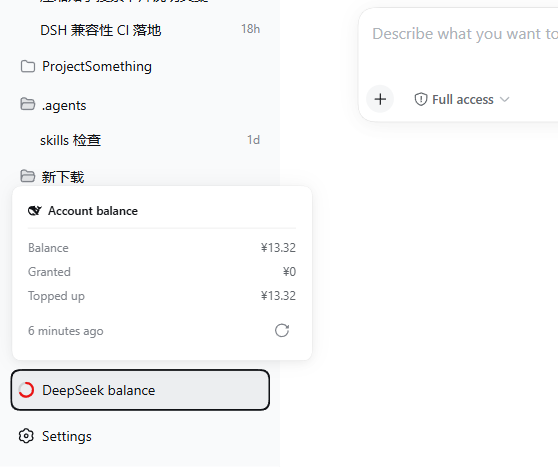
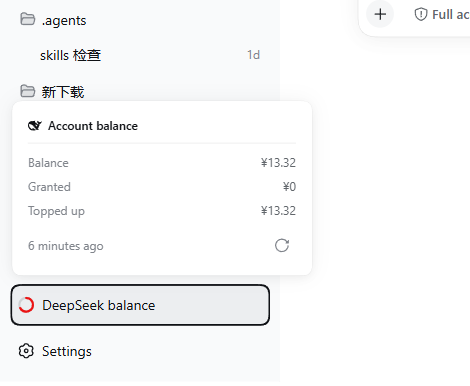
文档分层：每层只列层，会漂的值只留指针
改了什么
- 新增 docs/README.md 与 docs/AGENTS.md 双件：docs/ 的八份文件先归层（活文档 / 设计依据 / 记录）
  再登记进一张表 —— 层决定它能不能被改。
- 新增 .agents/notes/README.md：十三条决策记录各一行结论，并写明这里是「写死当时事实」的地方。
- 根 AGENTS.md 的「文档地图」不再逐个列 docs/ 下的文件，改成每层一行指针；
  每层有什么由那一层的 README 交代。
- 门面去掉实测来的 dist-tag 版本号：这个值随时会变，README 只讲语义（latest 比本插件要的那条线旧）
  并给出现查命令；中英双件同步改。
- test/redlines.test.ts 的「文档不抄实测值」从黑名单改成形状 + 分层：黑名单只挡 0.1.5-rc.2，
  而文档里当时写的是 0.1.5-rc.1，照样溜过去。现在扫全部活文档（记录类豁免），
  门面允许留宿主版本范围但必须与 package.json 同行，另加一条「守卫跟着宿主线走」，
  宿主换主版本号时它会红，提醒改形状。
- compat.yml 文件头注明版本号不写在这里。

为什么
- 一条事实只有一个 home：会漂的值（宿主版本范围、dist-tag 实际版本）只在真源里，别处写指针。
- 记录类（勘察 / 复盘 / 决策）写的就是当时的事实，故意带着会漂的值，不受这条约束。

怎么验证
- npx --no-install vitest run test/redlines.test.ts -> 18 passed。
  新守卫先扫出 recon/ —— 那是 .gitignore 忽略的勘察临时目录，已按「不随仓库走」排除。
- python check-links.py . --fragments -> 78 files / 362 links / 0 errors。
- python check-line-endings.py . --quiet -> 310 files / 0 inconsistent。
- npm run typecheck 三段 0；npm test 28 files / 309 passed。

怎么回滚
- git revert 本提交：两个新 README 会被删掉，根文档地图回到逐文件列表，红线回到黑名单版本。

diff --git a/test/redlines.test.ts b/test/redlines.test.ts
@@ -1,4 +1,4 @@
-import { existsSync, readFileSync } from 'node:fs'
+import { existsSync, readFileSync, readdirSync } from 'node:fs'
 import { describe, expect, it } from 'vitest'
 
 /**
@@ -118,6 +118,72 @@ describe('类型检查开关', () => {
     for (const flag of flags) {
       expect(tsconfig.compilerOptions?.[flag], flag).toBe(true)
     }
+  })
+})
+
+describe('文档不抄实测值', () => {
+  /**
+   * 记录类：写的就是当时的事实，**故意**带着会漂的值，所以不在约束范围内。
+   * 判据是「它写的是此刻还是当时」—— 被当现状读的才算活文档；层的登记表在 docs/README.md。
+   */
+  const RECORDS = [
+    /^\.agents\/notes\//,
+    /^docs\/postmortem\//,
+    /^docs\/recon-/,
+    /^docs\/(ui-handoff|model-integration-assessment|backend-architecture-review)\.md$/,
+  ]
+
+  /** 门面双件：装之前必须看得见兼容范围，所以允许留值 —— 但必须与真源同行。 */
+  const FACADE = ['README.md', 'README_en.md']
+
+  /** 真源。留值的那一行必须自己写出处。 */
+  const HOME = 'package.json'
+
+  /**
+   * 会漂的宿主版本字面量。
+   * 形状跟着宿主主版本走：宿主换主版本号时下面那条「守卫跟着宿主线走」会红，来改这里。
+   */
+  const HOST_VERSION = /\b0\.\d+\.\d+(?:-[a-z]+\.\d+)?\b/g
+
+  /** 仓库里会被当文档读的 markdown；跳过依赖、产物与版本库目录。 */
+  function liveDocs(dir = '.'): string[] {
+    const found: string[] = []
+    for (const entry of readdirSync(dir, { withFileTypes: true })) {
+      const path = dir === '.' ? entry.name : `${dir}/${entry.name}`
+      if (entry.isDirectory()) {
+        // recon/ 是勘察期的临时长文，被 .gitignore 忽略、不随仓库走，所以不在守卫范围内。
+        if (['node_modules', 'lib', '.git', 'recon'].includes(entry.name)) continue
+        found.push(...liveDocs(path))
+        continue
+      }
+      if (!entry.name.endsWith('.md')) continue
+      if (RECORDS.some((pattern) => pattern.test(path))) continue
+      found.push(path)
+    }
+    return found
+  }
+
+  it('活文档里不写会漂的宿主版本；门面要留就得与真源同行', () => {
+    const files = [...liveDocs(), ...readdirSync('.github/workflows').map((name) => `.github/workflows/${name}`)]
+    // 扫不到文件说明walk的路径规则坏了，先红这个，别让它静默变成一条永不触发的守卫。
+    expect(files.length).toBeGreaterThan(10)
+
+    for (const file of files) {
+      const lines = readFileSync(file, 'utf8').split('\n')
+      lines.forEach((line, index) => {
+        for (const value of line.match(HOST_VERSION) ?? []) {
+          if (FACADE.includes(file) && line.includes(HOME)) continue
+          throw new Error(
+            `${file}:${index + 1} 抄了会漂的宿主版本 ${value}` +
+            ` —— 改成指向 ${HOME} 的指针，或现查 node scripts/compat-swap.mjs check`,
+          )
+        }
+      })
+    }
+  })
+
+  it('守卫跟着宿主线走：宿主换主版本号时这条会红，来改 HOST_VERSION', () => {
+    expect(pkg.engines?.dsh, '宿主已不在 0.x 线上，HOST_VERSION 的形状要跟着改').toMatch(/^[~^]?0\./)
   })
 })
 

diff --git a/AGENTS.md b/AGENTS.md
@@ -40,37 +40,19 @@
 
 ## 验证快照
 
-- 结论一律来自本机实跑或 [CI](.github/workflows/ci.yml)。
-- 阶段 0：勘察报告完成，结论均带源文件行号。
-- 阶段 1：16 项集成决策已拍板 → [决策记录](.agents/notes/2026-09-17-integration-decisions.md)
-- 构建产物：`npm run build` 三步全绿。体积不抄进文档 —— 用 `Get-ChildItem lib` 现查。
-- 阶段 6：已用 patch 层热挂载进本机 web profile（符号链接形态），宿主未重启。
-- 维护者已实机确认：条目可见、设置卡片渲染、圆环与标签正常。
-- 修复过并复测的实机缺陷：footer 三条目互挤、展开态条目不可见、折叠态与邻居贴住、点邻居却弹我们的浮层。
-- 维护者已实机验收全部界面：圆环与标签、点击浮层、折叠分组、与邻居插件共存。
-- 窄视口浮层钳制已补验：360 / 480 / 600 / 700 / 721 五个宽度全部落在视口内。
-- **后端与界面完成**：实施路线的 11 步全部落地，路线表已从规格文档移出 → [归档记录](.agents/notes/2026-09-17-implementation-roadmap-archive.md)。
-- 实现与文档不一致的 15 条 → [决策记录](.agents/notes/2026-09-17-implementation-deviations.md)。
-- 端点实测（隔离实例，真实 dsh 宿主）：六个端点全部可用；`severity` 四档、`NO_KEY` / `UPSTREAM_401` / `UPSTREAM_5XX` 三条错误路径、`422` 校验、冷却、配置掩码逐条核过。
-- 持久化实测：重启宿主后快照按 `accountTag` 读回，`.salt` 复用；上游不可达时降级成 `stale` 而不是丢数据。
-- 界面实测（隔离实例 + 无头浏览器）：左下角圆环显示真实金额，浮层三段金额与相对时间正确，Escape 关闭，控制台零报错。
-- 测试与类型检查：跑 `npm test`（自带 build）与 `npm run typecheck`，或看 [CI](.github/workflows/ci.yml)。**数字不在本文档里抄。**
-- **主实例已重启**（13:15），跑的是最新产物；维护者已实机确认界面与功能。
-- 工程面对齐（同日第二轮）：三个发版脚本、三条 workflow、契约测试层、assets 双件、PUBLISHING、
-  CONTRIBUTING 中英、双语门面全部落地；判定与实测见 [落地记录](.agents/notes/2026-09-17-release-surface-landing.md)。
-- 两张设置卡片截图已实拍替换占位图（中英各一张，取自运行中的 GUI），拍英文时临时切过语言并已切回；
-  实拍踩到的两条约束写进 [assets/AGENTS.md](assets/AGENTS.md) 的「已知约束」。
-- 圆环弧长改为「余额占 warn 阈值的比例」（颜色映射不变），同步改了 9 处文档；
-  链接校验与换行校验在这一轮全部重跑过。
-- 阈值加了跨字段约束（同一币种内告急必须低于预警）：宿主 `validate` + 前端失焦提示 + 成对写入排序。
-  宿主那道要重启宿主才生效（浏览器半边靠 HMR 立刻生效）；判据与排序各有专门用例，见 [test/threshold-pairs.test.ts](test/threshold-pairs.test.ts)。
-- **真实上游实测（发布前）**：活宿主上 `GET /api/v1/balance` 回真实余额，圆环弧长 = 余额 / warn 阈值（15.06/20 → 0.753，与 dasharray 相符）；
-  浮层三段金额与相对时间正确；设置卡片凭据徽标「已由启动环境提供」；错 key 走插件自己的适配器得到 `UPSTREAM_401`、不可重试。
-- **已发布 1.0.0**：npm 上那个 tarball 的 shasum 与本仓库 `npm pack --dry-run` 的**完全一致**（`a82e68ef…`），
-  即 npm 上的 1.0.0 就是 `555d242` 这棵树。
-- 维护者第二轮反馈四项全部落地并实测：刷新按钮冷却期内置灰（`disabled` 为真、状态行「N 秒后可再次刷新」）；
-  改阈值圆环当场变色且**上游请求数保持 0**；五档形状 ok 绿实弧 / warn 琥珀实弧 / critical 红实弧 / unavailable 红弧+中心叉号 / unknown 灰实弧；
-  连接组的只读凭据显示「已由启动环境提供」徽标且框内留空、Base URL 带官方提示、「自定义设置」折叠里有 apiKey 与 apiKeyRef。
+- 结论一律来自本机实跑或 [CI](.github/workflows/ci.yml)；**数字不在本文档里抄**。
+- 领域 / 服务 / 适配器 / HTTP / 浏览器半边：`npm test` 覆盖 —— 跑它，或看 CI。
+- 产物级：`test/artifacts.test.ts` 在 `lib/` 上断言（`npm test` 自带 build）。
+- 契约级：`npm run test:contract` 打真实上游，要 `DSH_CI_API_KEY`。
+- **真机端到端已验**（隔离实例 + 真实 dsh 宿主）：六个端点、`severity` 四档、
+  `NO_KEY` / `UPSTREAM_401` / `UPSTREAM_5XX` 三条错误路径、`422` 校验、冷却、配置掩码；
+  重启后快照按 `accountTag` 读回、`.salt` 复用、上游不可达降级成 `stale`。
+- **界面已由维护者实机验收**：圆环 / 浮层 / 折叠分组 / 与邻居插件共存；
+  窄视口 360 / 480 / 600 / 700 / 721 五个宽度浮层都落在视口内。
+- **发布前在活宿主上打过真实上游**：余额、浮层三段、凭据徽标，以及错 key 的 `UPSTREAM_401`。
+- **已发布 1.0.0**，npm 上的 tarball 与本仓库 `npm pack --dry-run` 的 shasum 一致。
+
+轮次流水记在 git log 与 [.agents/notes/](.agents/notes/) 里，不在这里堆。
 
 ## 待办
 
@@ -104,7 +86,7 @@
 - **cordis 不许读没 `inject` 过的服务**：直接访问会抛 `cannot get property "..." without inject`。可选服务（`connection` / `storageDomain`）必须由 `ctx.inject` 把门并留降级路径；把它们塞进顶层 `inject` 会让缺服务的装配整个插件不装载。**降级路径会把这条配置错误伪装成运行时故障**，所以启动日志要当验收项看。
 - 符号链接安装下 `npm run build` 直接写线上，未验证的构建会立刻影响正在使用的界面。
 - `inject` 门禁按服务名逐字判，点号键不展开成父级。
-- dist-tag 的 `latest` 指向很旧的版本，装依赖必须点名版本线；`@deepseek-ai/schemastery` 不在 `0.1.6-alpha.1` 线上。
+- dist-tag 的 `latest` 指向很旧的版本，装依赖必须点名版本线；`@deepseek-ai/schemastery` 不在宿主那条线上。实际版本现查：`node scripts/compat-swap.mjs check`。
 - `dsh.client.inject` 只列真实客户端图行；`ui-slots` 与 `ui-primitives` 是 staticLinked 平台模块，列进去会被静默跳过。
 - **`npm ci` 会执行 `prepare`**：所以本仓库**不声明** `prepare`。声明了的话 CI 的 `npm ci` 会先产出 `lib/`，typecheck 就再也看不到「干净检出」这个状态 —— 那正是刚修掉的一类缺陷（`test/artifacts.test.ts` 在 CI 上 TS2307，本机因产物早就在而常绿）。见 [决策记录](.agents/notes/2026-09-17-prepare-script-decision.md)。
 - **写临时探针别用 `os.tmpdir()`**：进程环境为空时它在 Windows 上返回相对路径 `undefined\temp`，会把文件写进工作区，还会让 `robocopy` 自我递归出一棵超 MAX_PATH 的目录树。用 `$env:TEMP` 或显式绝对路径，用完即删。
@@ -120,6 +102,20 @@
 
 - **一条事实只有一个 home**：根 [README.md](README.md) 讲门面，本文件讲规则与仪表盘，子目录 `README.md` 讲「有什么 / 改哪」，子目录 `AGENTS.md` 讲「在这里怎么干」，[docs/ARCHITECTURE.md](docs/ARCHITECTURE.md) 讲不变的设计，[.agents/notes/](.agents/notes/) 讲为什么。别处一律链接。
 - **能自证的不抄**：测试数字、产物体积、版本号一律指向 [CI](.github/workflows/ci.yml)、`package.json` 或现查命令；抄一次就要手动跟一次。
+- **新增会漂的事实之前，先在下表登记去处**；别处只写指针，不重抄值。
+
+  | 事实 | home | 别处怎么写 |
+  |---|---|---|
+  | 版本号、依赖范围、`engines` | [package.json](package.json) | 引用，不重抄 |
+  | 测试数量、类型检查结果 | [CI](.github/workflows/ci.yml) 或现跑 | 一律不抄 |
+  | 产物清单与体积 | `Get-ChildItem lib` 现查 | 一律不抄 |
+  | 发布态该有什么 | [scripts/check-release.mjs](scripts/check-release.mjs) 的断言 | 引用断言集合 |
+  | dist-tag 三条线的实际版本 | `node scripts/compat-swap.mjs check` 现查 | 只写语义（哪条旧、哪条是我们声明的） |
+  | 端点路径与请求形状 | [src/http/routes.ts](src/http/routes.ts) | 引用 |
+  | 配置字段与契约 | [src/config.ts](src/config.ts) · [docs/backend-architecture.md](docs/backend-architecture.md) | 引用 |
+  | 颜色 / 阈值口径 | [docs/ARCHITECTURE.md](docs/ARCHITECTURE.md) | 引用 |
+  | dsh 运行时行为 | 宿主源码 `packages/` | 带行号引用，行号以当前检出为准 |
+  | 发布状态（版本 / tag） | npm 与 GitHub 现查 | 只留一行指针 |
 - **能落成校验的不写散文**：红线 → [test/redlines.test.ts](test/redlines.test.ts)；发布态不变量 → [scripts/check-release.mjs](scripts/check-release.mjs)；文档链接与换行 → `check-links.py` / `check-line-endings.py`。
 - **改一处要查得到同步点**：每个子目录 `README.md` 的「变更影响路由」是同步清单入口；新增或改名文件后必须回填。
 - **改根 [README.md](README.md) 必同改 [README_en.md](README_en.md)**：能力清单、上手步骤、指针逐条对齐，冲突以中文为准。
@@ -127,19 +123,9 @@
 
 ## 文档地图
 
-- 架构设计 → [docs/ARCHITECTURE.md](docs/ARCHITECTURE.md)
-- 原生集成勘察（设计依据）→ [docs/recon-native-integration.md](docs/recon-native-integration.md)
-- 连接与官方模型机制的融合判定（设计依据）→ [docs/model-integration-assessment.md](docs/model-integration-assessment.md)
-- 后端架构（修正版，已复审；只含设计与契约）→ [docs/backend-architecture.md](docs/backend-architecture.md)
-- 后端架构文档对照审查（设计依据）→ [docs/backend-architecture-review.md](docs/backend-architecture-review.md)
-- **UI 侧契约与移交（可原样转发给后端）** → [docs/ui-handoff.md](docs/ui-handoff.md)
-- 发布手册（流程与版本号判定链）→ [docs/PUBLISHING.md](docs/PUBLISHING.md)
-- 门面截图与其判据 → [assets/README.md](assets/README.md) · [assets/AGENTS.md](assets/AGENTS.md)
-- 决策记录 → [.agents/notes/](.agents/notes/)
-- 源码手册 → [src/README.md](src/README.md)
-- 浏览器半边 → [src/client/README.md](src/client/README.md)
-- 领域模型手册 → [src/domain/README.md](src/domain/README.md)
-- 测试手册 → [test/README.md](test/README.md)
-- 构建脚本 → [scripts/README.md](scripts/README.md)
-- 事故复盘 → [docs/postmortem/](docs/postmortem/)
-- 验证配方（隔离实例 / stub 上游 / 探针）→ [.agents/notes/2026-09-17-verification-recipes.md](.agents/notes/2026-09-17-verification-recipes.md)
+- 本表只列**层**；每层有什么在它自己的 README 里，不在这里重抄一份。
+- 设计、契约、发布手册与事故复盘 → [docs/README.md](docs/README.md)
+- 决策记录与验证配方（当时为什么这么定）→ [.agents/notes/README.md](.agents/notes/README.md)
+- 源码手册 → [src/README.md](src/README.md)；浏览器半边 → [src/client/README.md](src/client/README.md)；领域模型 → [src/domain/README.md](src/domain/README.md)
+- 测试手册 → [test/README.md](test/README.md)；构建脚本 → [scripts/README.md](scripts/README.md)
+- 门面截图与判据 → [assets/README.md](assets/README.md) · [assets/AGENTS.md](assets/AGENTS.md)

diff --git a/.agents/notes/README.md b/.agents/notes/README.md
@@ -1,0 +1,24 @@
+# .agents/notes/ — 决策记录与备忘
+
+- 职责：记「当时为什么这么定」，以及被这个决定排除掉的替代方案。
+- 一条一档，文件名 `YYYY-MM-DD-<主题>.md`；决策类按「问题 / 决策 / 替代方案 / 影响」写，备忘类按「事实 / 处置 / 影响」写。
+- **这里写死当时的事实**：它们是记录，不随代码更新；结论变了就新添一条，不改旧的。
+- 现状看 [docs/ARCHITECTURE.md](../../docs/ARCHITECTURE.md) 与 [docs/README.md](../../docs/README.md)；过程流水看 git log。
+
+## 索引
+
+| 记录 | 结论 |
+|---|---|
+| [verification-recipes](2026-09-17-verification-recipes.md) | 验证配方：隔离实例、stub 上游、探针脚本，含双挂载那条坑。 |
+| [integration-decisions](2026-09-17-integration-decisions.md) | 阶段 1 集成方案拍板，另附六条补充决策（设置卡片只做配置、第一版只显示余额等）。 |
+| [footer-stack-override](2026-09-17-footer-stack-override.md) | 宿主 footer 容器是 row flex：插件侧用 `:has()` 反选父元素改回纵向堆叠。 |
+| [collapsible-groups](2026-09-17-collapsible-groups.md) | 设置卡片改可折叠分组，默认四组全收起。 |
+| [zhihu-search-alignment](2026-09-17-zhihu-search-alignment.md) | 工程面照 `dsh-zhihu-search` 对齐：批 A–J 的取舍清单。 |
+| [no-linter-decision](2026-09-17-no-linter-decision.md) | 不引 lint，改用四个编译器开关顶上。 |
+| [prepare-script-decision](2026-09-17-prepare-script-decision.md) | 不声明 npm `prepare`：否则 CI 的 `npm ci` 会先产出 `lib/`，看不见干净检出。 |
+| [compat-lines-advisory](2026-09-17-compat-lines-advisory.md) | compat 两条线暂时都只记录、不阻断；恢复主次的判据在文内。 |
+| [release-surface-landing](2026-09-17-release-surface-landing.md) | 发布面十一项落地，分「抄 / 改后抄 / 不抄」三类。 |
+| [deferred-release-surface](2026-09-17-deferred-release-surface.md) | 当时暂缓的发布面项目；现已全部落地，落地记录见上一条。 |
+| [implementation-deviations](2026-09-17-implementation-deviations.md) | 实现与既定文档的偏离清单，末节是六条待产品决策。 |
+| [implementation-roadmap-archive](2026-09-17-implementation-roadmap-archive.md) | 实施路线与给实现 Agent 的开场白归档。 |
+| [host-fetch-path-jsdoc-memo](2026-09-17-host-fetch-path-jsdoc-memo.md) | 备忘：宿主 `ConnectionFetchRoute.path` 的 JSDoc 与实现矛盾。 |

diff --git a/docs/README.md b/docs/README.md
@@ -1,0 +1,34 @@
+# docs/ — 设计与契约文档
+
+- 职责：放跨阶段的**设计 / 契约 / 流程**；实现细节进 [src/](../src/README.md) 的手册，过程记录进 [.agents/notes/](../.agents/notes/)。
+- 怎么在这里写 → [AGENTS.md](AGENTS.md)。
+- 上层 → 根 [AGENTS.md](../AGENTS.md) 的文档地图；门面 → 根 [README.md](../README.md)。
+
+## 三层
+
+- **活文档**：描述现状，随代码改；改了代码要同批改它。
+- **设计依据**：某个阶段定契约的那一份，写完即冻结；后来变了就新写一条决策记录，不回头改它。
+- **记录**：勘察与复盘，只写当时发生了什么。
+
+层的判据决定它能不能被改，所以每份文件先归层再动笔。
+
+## 文件
+
+| 文件 | 层 | 一句话 |
+|---|---|---|
+| [ARCHITECTURE.md](ARCHITECTURE.md) | 活 | 不变的设计与防错清单：插件形态、slot、颜色口径、跨字段校验。 |
+| [PUBLISHING.md](PUBLISHING.md) | 活 | 发布手册：流程、版本号判定链、判例库。 |
+| [backend-architecture.md](backend-architecture.md) | 活 | 后端契约（端点 / 配置 / 存储 / 错误码）的 home。 |
+| [ui-handoff.md](ui-handoff.md) | 依据 | 移交给后端的那份 UI 契约：消费哪些字段、不消费哪些。 |
+| [model-integration-assessment.md](model-integration-assessment.md) | 依据 | 与官方模型机制（凭据继承）的融合判定。 |
+| [backend-architecture-review.md](backend-architecture-review.md) | 依据 | 后端架构文档的逐条对照审查。 |
+| [recon-native-integration.md](recon-native-integration.md) | 记录 | 阶段 0 勘察：原生 slot / 组件 / token / 数据获取的实测结论。 |
+| [postmortem/](postmortem/) | 记录 | 按日期归档的事故复盘：现象、根因、防错。 |
+
+## 变更影响路由
+
+- 改对外可见行为 → 根 [README.md](../README.md)（中英双件同改）+ [ARCHITECTURE.md](ARCHITECTURE.md)。
+- 改界面结构、颜色口径或阈值口径 → [ARCHITECTURE.md](ARCHITECTURE.md)。
+- 改端点、配置字段或错误码 → [backend-architecture.md](backend-architecture.md) + [src/http/README.md](../src/http/README.md)。
+- 改发布流程或版本号判定 → [PUBLISHING.md](PUBLISHING.md)。
+- 新增、改名或删除本目录的文件 → 回填本文件与根 [AGENTS.md](../AGENTS.md) 的文档地图。

diff --git a/README_en.md b/README_en.md
@@ -34,7 +34,7 @@ sidebar; click it for the three amounts and the freshness of the data. Anything 
 configure, lives on the settings card.
 
 <p align="center">
-  <img src="assets/sidebar-popover_en.png" alt="The DeepSeek balance entry at the bottom of the sidebar, with its popover open" width="460">
+  <img src="assets/sidebar-popover_en.png" alt="The DeepSeek balance entry at the bottom of the sidebar, with its popover open" width="360">
   <br>
   <em>A permanent fixture at the <strong>bottom of the sidebar</strong>, alongside Usage statistics and Settings; click it for the balance, the granted / topped-up split, and how fresh the data is.</em>
 </p>
@@ -51,7 +51,7 @@ The division of labour is fixed: **the ring answers "roughly how much is left", 
 and the card answers "how is that computed".**
 
 <p align="center">
-  <img src="assets/settings-card_en.png" alt="The DeepSeek balance card in the plugin settings" width="460">
+  <img src="assets/settings-card_en.png" alt="The DeepSeek balance card in the plugin settings" width="360">
   <br>
   <em>Sits alongside other plugins in <strong>Settings → Plugins → Plugin configuration</strong>; all four groups are collapsed by default, so the card opens as four header rows.</em>
 </p>
@@ -71,9 +71,10 @@ and the card answers "how is that computed".**
 ### Requirements
 
 - **DSH `^0.1.6-alpha.1`** — the range declared in [package.json](package.json) under `engines.dsh` and `peerDependencies`.
-- Node `>= 20`
+- Node `>= 20` — same source of truth: `engines.node` in `package.json`.
 
-Install the host by **naming the version line explicitly**: the `latest` tag of `@deepseek-ai/dsh` points at `0.1.5-rc.1`, one notch *below* what this plugin requires — a default install lands outside the declared range.
+Install the host by **naming the version line explicitly**: the `latest` tag of `@deepseek-ai/dsh` is older than the line this plugin requires — a default install lands outside the declared range.
+For the actual versions, run `node scripts/compat-swap.mjs check`; the semantics are in [docs/PUBLISHING.md](docs/PUBLISHING.md) under "Compatibility".
 
 ```bash
 npm install -g @deepseek-ai/dsh@alpha     # the line this plugin promises to support

diff --git a/README.md b/README.md
@@ -32,7 +32,7 @@
 要看细的、要改配置的，都在设置页那一张卡片里。
 
 <p align="center">
-  <img src="assets/sidebar-popover.png" alt="左边栏底部的「DeepSeek 余额」条目与展开的余额浮层" width="460">
+  <img src="assets/sidebar-popover.png" alt="左边栏底部的「DeepSeek 余额」条目与展开的余额浮层" width="360">
   <br>
   <em>常驻<strong>左边栏底部</strong>，与「使用统计」「设置」并排；点开是余额、赠送 / 充值拆分与数据新鲜度。</em>
 </p>
@@ -48,7 +48,7 @@
 三种界面的分工是死的：**圆环回答「大概还剩多少」，浮层回答「具体是多少」，卡片回答「怎么算」。**
 
 <p align="center">
-  <img src="assets/settings-card.png" alt="插件配置页中的「DeepSeek 余额」卡片" width="460">
+  <img src="assets/settings-card.png" alt="插件配置页中的「DeepSeek 余额」卡片" width="360">
   <br>
   <em>在 <strong>设置 → 插件 → 插件配置</strong> 中与其他插件并排；四组默认全收起，卡片一打开只占四行折叠头。</em>
 </p>
@@ -70,9 +70,10 @@
 ### 前置
 
 - **DSH `^0.1.6-alpha.1`** —— 即 [package.json](package.json) 的 `engines.dsh` 与 `peerDependencies` 声明的范围。
-- Node `>= 20`
+- Node `>= 20` —— 同上，真源是 `package.json` 的 `engines.node`。
 
-装宿主时**要显式指定版本线**：`@deepseek-ai/dsh` 的 `latest` 标签指向 `0.1.5-rc.1`，比本插件要求的还低一格 —— 按默认方式装会落在声明范围之外。
+装宿主时**要显式指定版本线**：`@deepseek-ai/dsh` 的 `latest` 标签比本插件要求的那条线还旧 —— 按默认方式装会落在声明范围之外。
+各条线的实际版本现查 `node scripts/compat-swap.mjs check`，语义见 [docs/PUBLISHING.md](docs/PUBLISHING.md) 的「兼容性」。
 
 ```bash
 npm install -g @deepseek-ai/dsh@alpha     # 本插件承诺支持的线

diff --git a/docs/AGENTS.md b/docs/AGENTS.md
@@ -1,0 +1,13 @@
+# docs/ — 规则层
+
+继承根规则，见 [../AGENTS.md](../AGENTS.md)。
+
+docs/ 特有约束：
+
+- 动笔前先给文件归层（活 / 依据 / 记录），并把层登记进 [README.md](README.md) 的表 —— 层决定它能不能被改。
+- **活文档**随代码走：改了对外行为，同一次改动内同步它。
+- **依据与记录不追改**：当时写的事实就留在那里；结论变了新写一条 [决策记录](../.agents/notes/)，在那里说明替代了什么。
+- **活文档不抄会漂的值**：宿主版本范围、dist-tag 实际版本、测试数量一律写指针或现查命令。红线在 [../test/redlines.test.ts](../test/redlines.test.ts)。
+- 一份事实一个 home：别的文档要讲同一件事时写指针，不重抄内容。
+- 链接一律相对路径；改完跑一次链接校验（命令见根 [AGENTS.md](../AGENTS.md) 的「常用命令」）。
+- 不写本机路径、端口、profile 名与用户名 —— 用占位符。
